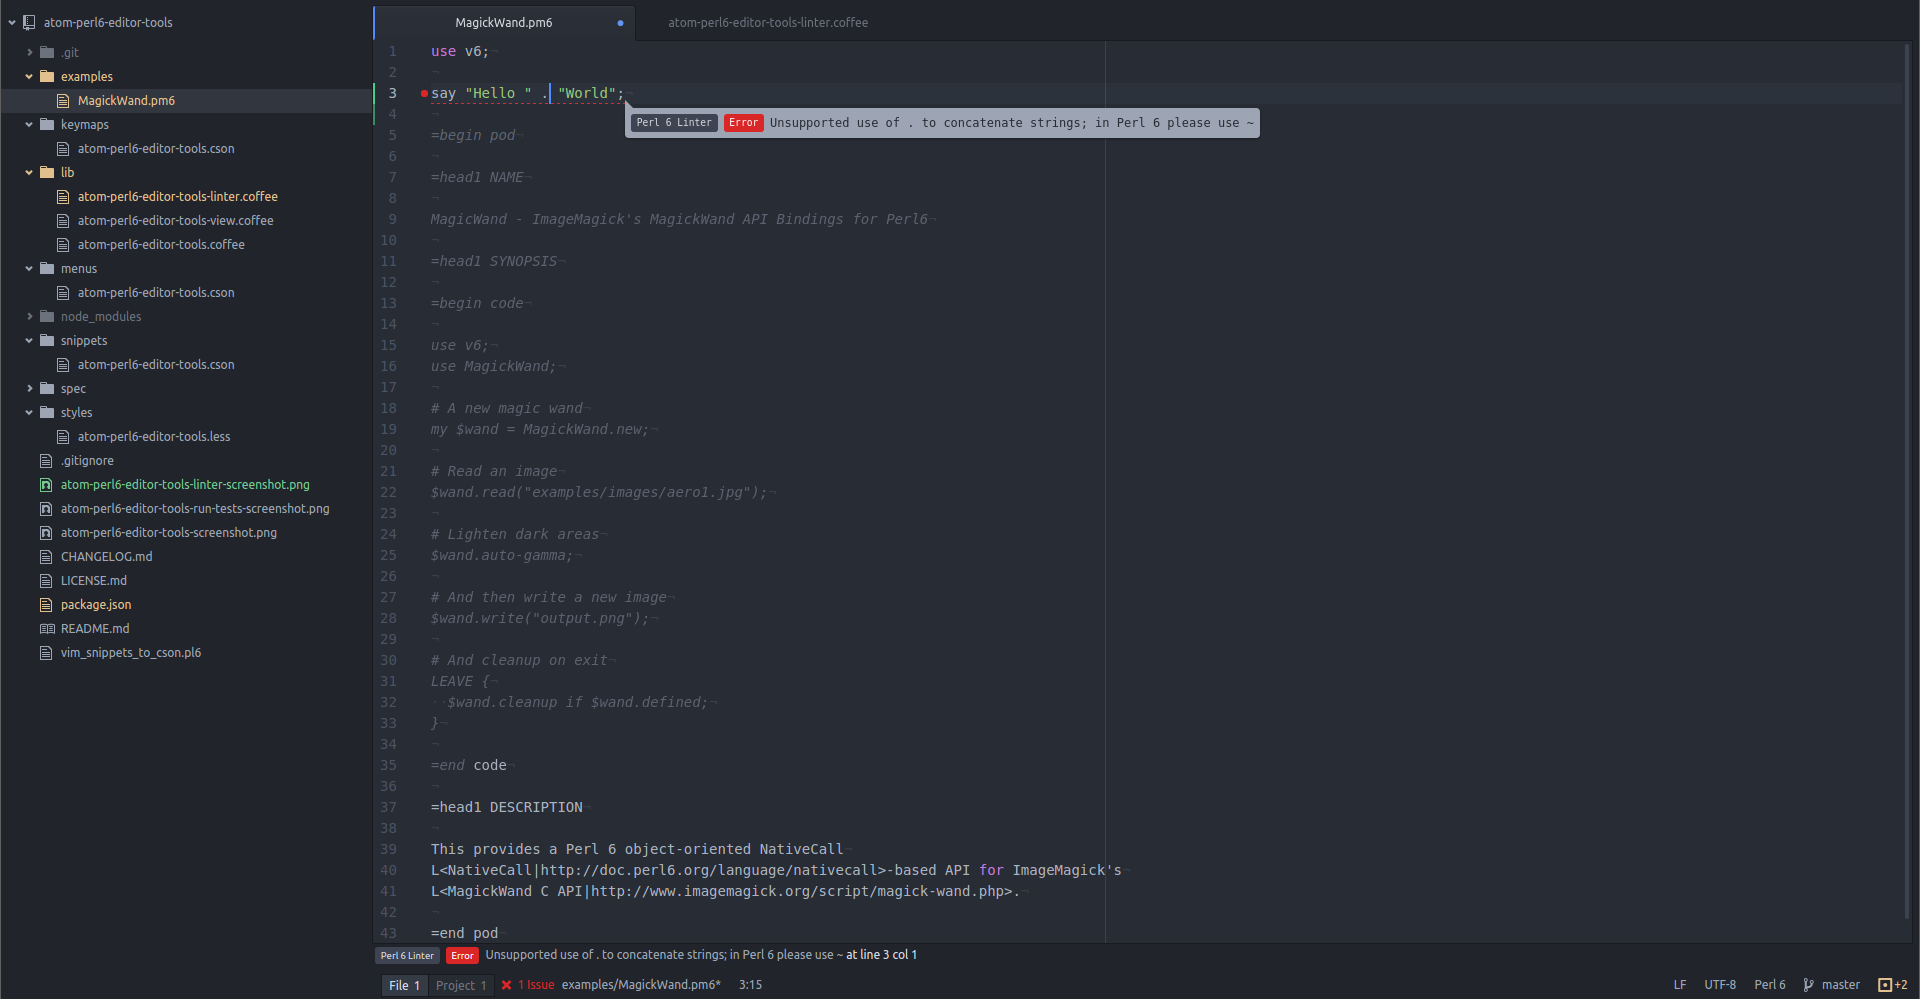
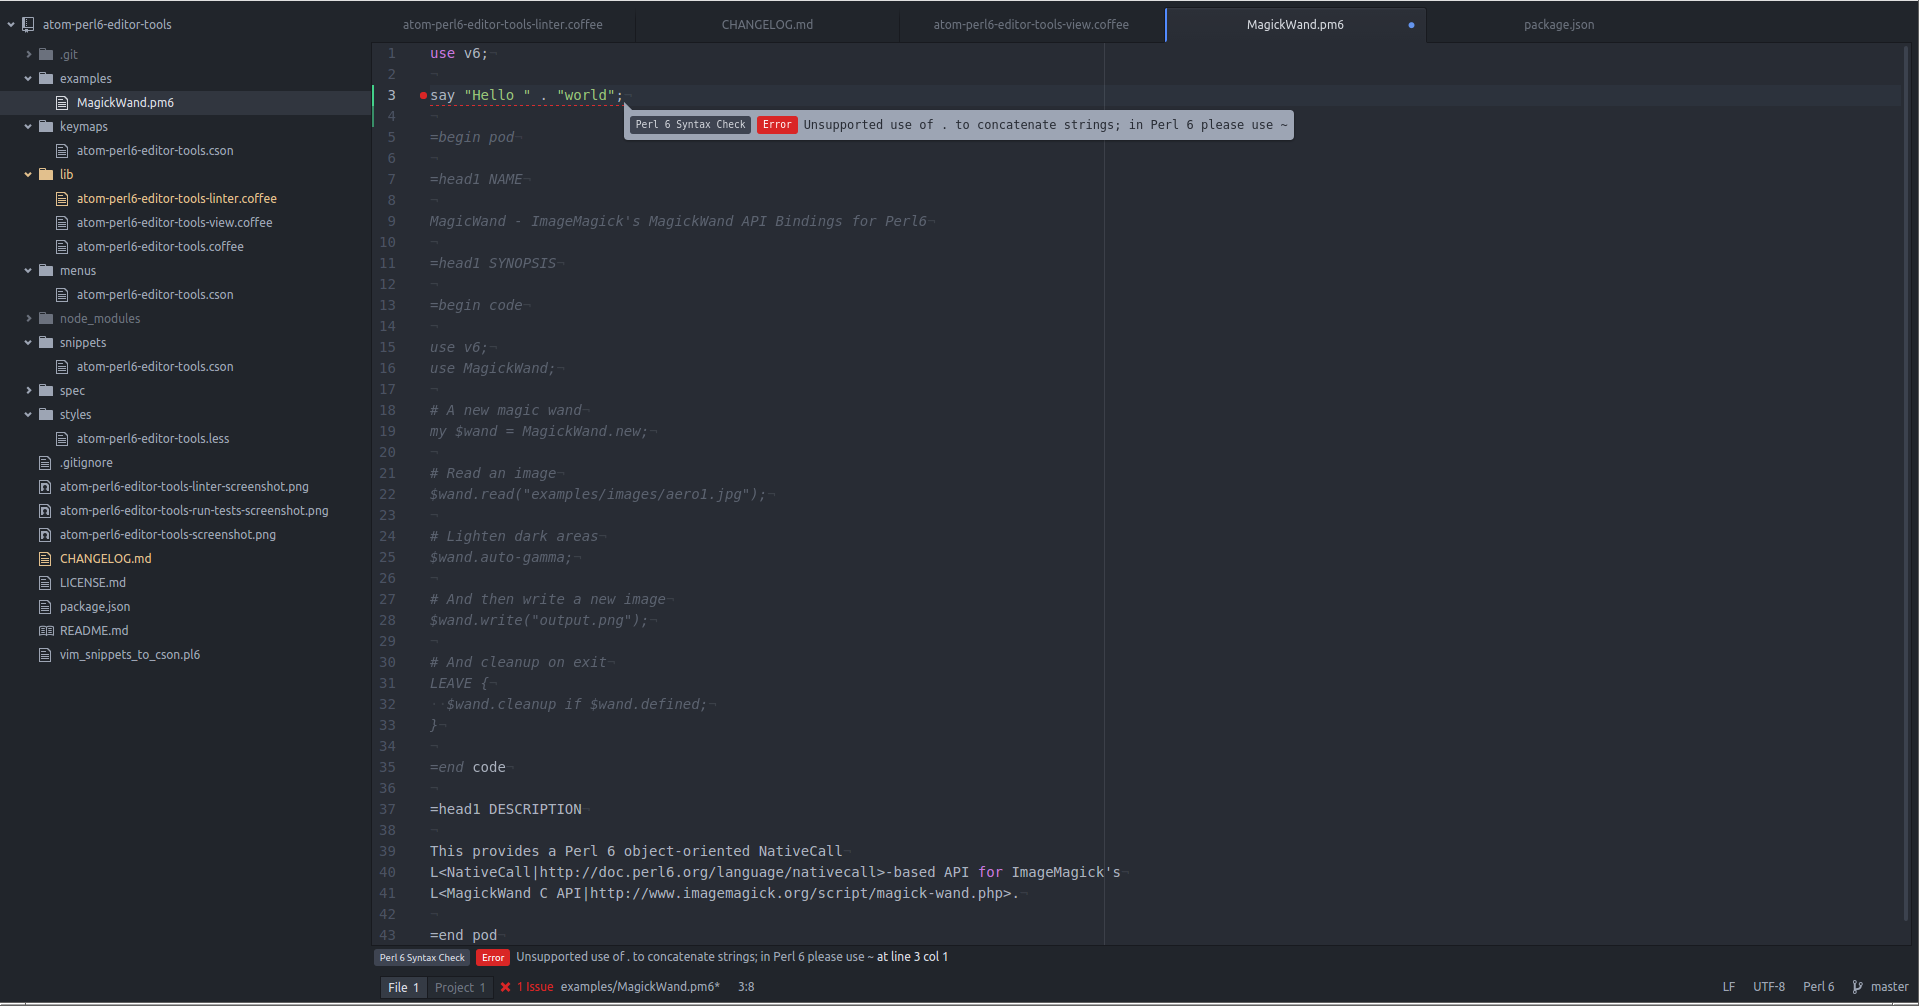
Rename to syntax check

diff --git a/CHANGELOG.md b/CHANGELOG.md
@@ -1,6 +1,6 @@
 ## 0.8.0
 * Use current theme in POD Preview
-* Add Perl 6 linter support
+* Add Perl 6 syntax checking linter support
 * Fix documentation
 
 ## 0.7.0
